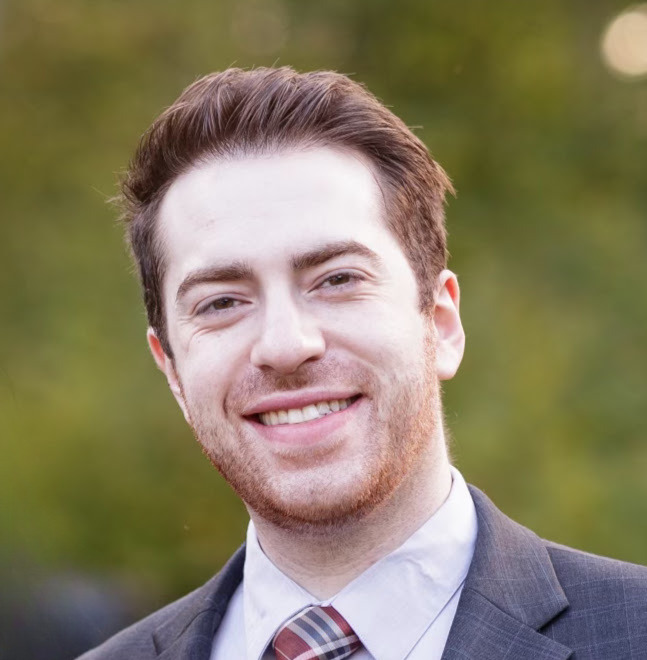
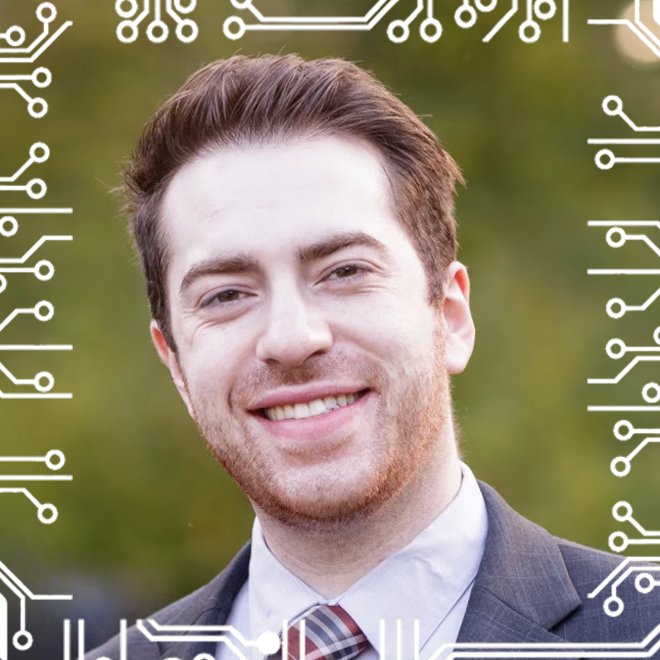
Added judge information and changed frame design

diff --git a/css/makecu.css b/css/makecu.css
@@ -743,10 +743,8 @@ a {
 }
 
 .past-event-photo {
-  background: var(--blue-dark);
-  box-shadow:
-    8px 8px 0 rgba(0, 81, 154, 0.48),
-    0 0 0 1px rgba(235, 235, 235, 0.22);
+  background: transparent;
+  box-shadow: none;
   height: auto;
   object-fit: cover;
   opacity: 0.68;
@@ -1437,11 +1435,17 @@ a {
 .photo-frame,
 .team-avatar {
   background: rgba(235, 235, 235, 0.12);
-  border: 1px solid rgba(235, 235, 235, 0.28);
   display: block;
 }
 
+.photo-frame,
+.team-avatar {
+  border: 2px solid var(--paper);
+  box-sizing: border-box;
+}
+
 .circuit-chip {
+  border: 1px solid rgba(235, 235, 235, 0.28);
   height: 126px;
   margin: 0 auto;
   width: 100%;
@@ -1449,6 +1453,11 @@ a {
 
 .judge-grid {
   grid-template-columns: repeat(3, minmax(0, 1fr));
+}
+
+.judge-grid.judge-grid-single {
+  grid-template-columns: minmax(0, 320px);
+  justify-content: center;
 }
 
 .judge-card {
@@ -1533,6 +1542,10 @@ a {
   font-weight: 400;
   line-height: 1.5;
   margin: 22px 0 0;
+}
+
+.judge-bio {
+  text-align: left;
 }
 
 .checklist-complete-panel {
@@ -1834,7 +1847,7 @@ a {
 .team-avatar {
   align-items: center;
   background: transparent;
-  border: 3px solid var(--paper);
+  border: 2px solid var(--paper);
   color: var(--paper);
   display: inline-flex;
   font-family: var(--font-heading);

diff --git a/index.html b/index.html
@@ -309,9 +309,7 @@ layout: default
       <span>$</span>
       <h2><span class="terminal-command">open</span> JUDGES</h2>
     </div>
-    <p class="section-tbd">TBD</p>
-    {% comment %}
-    <div class="judge-grid">
+    <div class="judge-grid{% if site.event.judges.size == 1 %} judge-grid-single{% endif %}">
       {% for judge in site.event.judges %}
         <button class="judge-card" type="button" data-dialog-target="judge-{{ forloop.index }}">
           {% if judge.photo and judge.photo != "" %}
@@ -332,12 +330,11 @@ layout: default
             {% endif %}
             <h3>{{ judge.name }}</h3>
             <p class="dialog-role">{{ judge.role }}</p>
-            <p>{{ judge.bio }}</p>
+            <p class="judge-bio">{{ judge.bio }}</p>
           </div>
         </dialog>
       {% endfor %}
     </div>
-    {% endcomment %}
   </section>
 
   <section class="section faq snap-section" id="faq">
